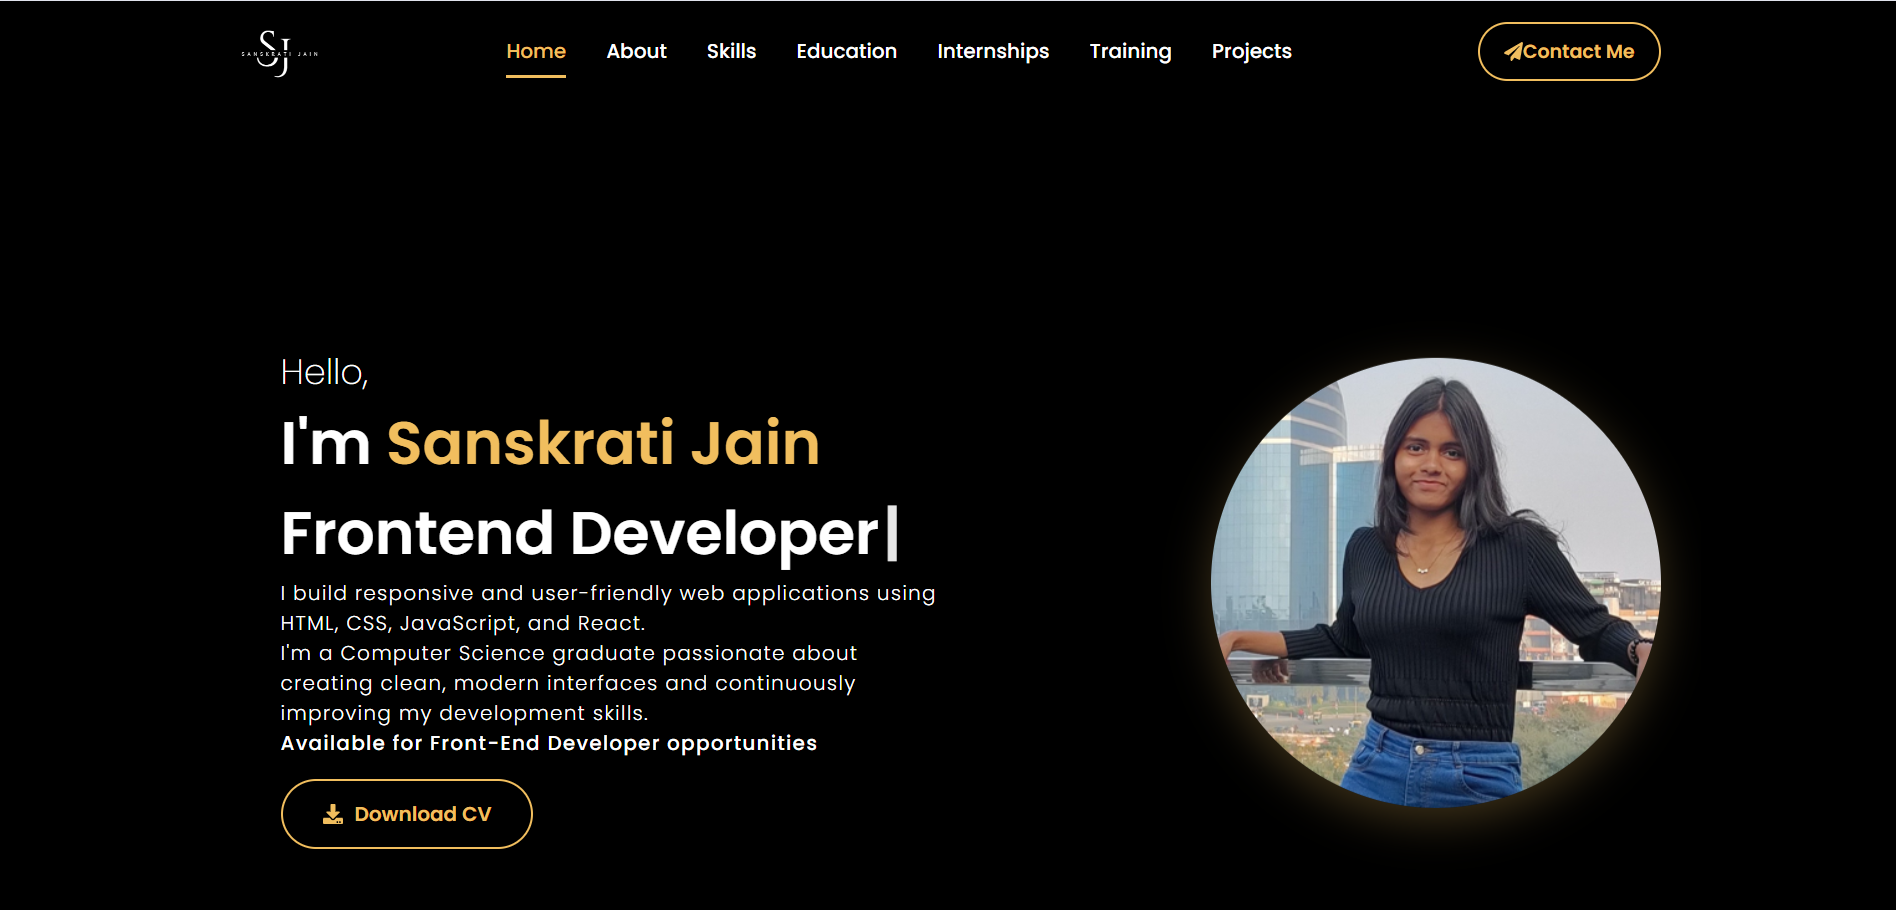
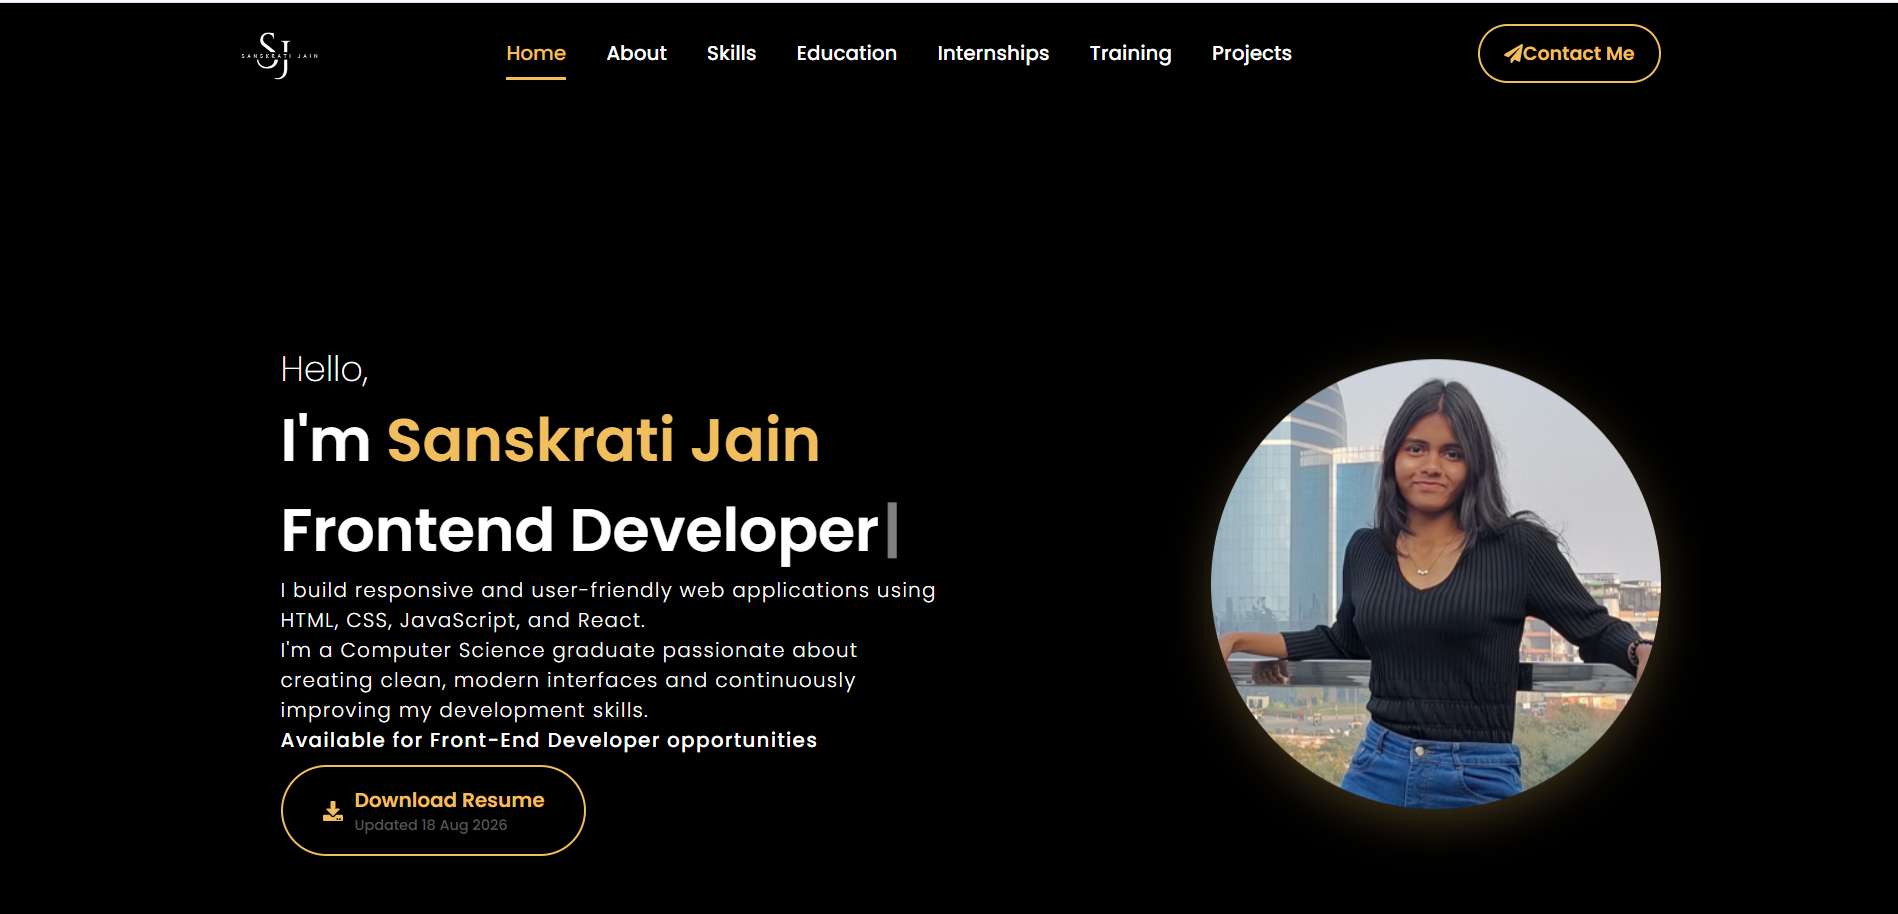
Portfolio v2: Integrate Sanity CMS and enhance project features

diff --git a/README.md b/README.md
@@ -1,6 +1,6 @@
 # 🌐 Personal Portfolio Website
 
-This is my **personal portfolio website** built using **React.js**. It showcases my projects, skills, certifications, contact form, and professional experience in a clean and responsive design.
+A modern, responsive portfolio website built with **React.js** and powered by **Sanity CMS**. The portfolio showcases my projects, technical skills, education, internships, and resume while allowing content to be updated dynamically without modifying the source code.
 
 ![Portfolio Screenshot](./public/preview.png)
 
@@ -12,25 +12,64 @@ This is my **personal portfolio website** built using **React.js**. It showcases
 
 ## 📌 Features
 
-- ✅ Fully responsive and mobile-friendly UI
-- 🎨 Modern design built with HTML, CSS, JavaScript, and React
-- 💼 Project showcase with image previews and modal popups
-- 📫 Contact form that sends messages directly to email using **EmailJS**
-- 🌐 Linked to GitHub, LinkedIn,Gmail, and Instagram profiles
-- 📝 Dynamic components and clean code architecture
+- 🎨 Modern, responsive UI
+- 📂 Dynamic Projects section powered by **Sanity CMS**
+- 🛠 Dynamic Skills section with categorized technologies
+- 📄 Resume managed through Sanity CMS
+- 📅 Automatically displays the latest resume update date
+- 🔍 Project filtering by category
+- 🖼 Project modal with technologies and external links
+- 📫 Contact form powered by EmailJS
+- 🌐 Social media integration (GitHub, LinkedIn, Gmail & Instagram)
+- ⚡ Fast deployment using Vercel
 
 ---
 
 ## 🛠 Tech Stack
 
-| Category       | Technology              |
-|----------------|--------------------------|
-| Frontend       | React.js, HTML5, CSS3    |
-| Styling        | Custom CSS (responsive)  |
-| Icons          | `react-icons`            |
-| Email Handling | [EmailJS](https://www.emailjs.com/) |
-| Hosting        | Vercel         |
-| Version Control| Git & GitHub             |
+| Category | Technologies |
+|----------|--------------|
+| Frontend | React.js, HTML5, CSS3, JavaScript |
+| CMS | Sanity CMS |
+| Styling | Custom CSS |
+| Icons | React Icons |
+| Email Service | EmailJS |
+| Hosting | Vercel |
+| Version Control | Git & GitHub |
+
+---
+
+
+## 📂 Current Sections
+
+- Home
+- About
+- Skills (CMS Powered)
+- Education
+- Internships
+- Projects (CMS Powered)
+- Resume (CMS Powered)
+- Contact
+
+---
+
+## 🚀 CMS Features
+
+This portfolio uses **Sanity CMS** to manage content dynamically.
+
+Currently managed through Sanity:
+
+- ✅ Projects
+- ✅ Skills
+- ✅ Resume
+
+Upcoming CMS sections:
+
+- 📜 Certificates
+- 💼 Experience
+- 🏆 Achievements
+
+This allows me to update my portfolio without modifying the React code or redeploying for every content change.
 
 ---
 
@@ -39,6 +78,7 @@ This is my **personal portfolio website** built using **React.js**. It showcases
 ```
 portfolio/
 ├── public/
+├── sanity/
 ├── src/
 │ ├── assets/
 │ ├── components/
